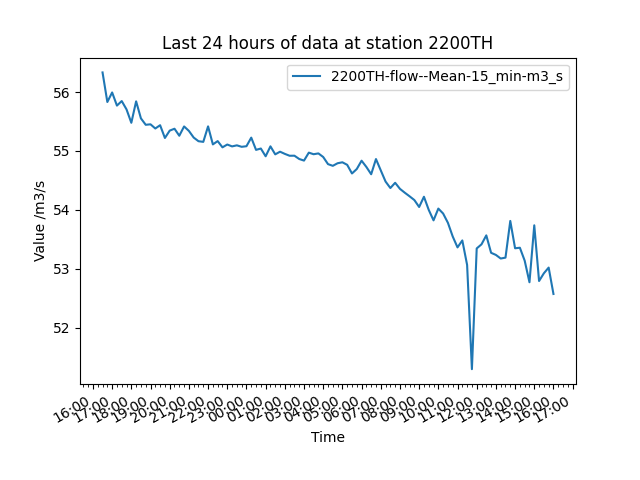
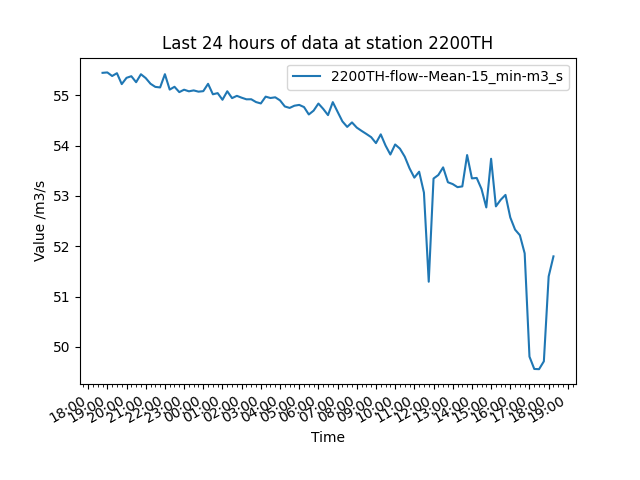
Added better readme and more examples

diff --git a/water_level.py b/water_level.py
@@ -41,8 +41,10 @@ if __name__ == '__main__':
         selected_station=input()
         if any(x in selected_station for x in parameters) and '=' in selected_station:
             parameter,parameter_value=selected_station.split('=')
-            #put the parameter value in title case
-            mask=data[parameter]==parameter_value.title().strip()
+            parameter_value=parameter_value.lower()
+
+            #Create a mask for the selected parameter
+            mask=[x.lower()==parameter_value if type(x)==str else x==parameter_value for x in data[parameter]]
             if sum(mask)==0:
                 logging.info("No station with the specified parameter")
             else:
@@ -81,12 +83,19 @@ if __name__ == '__main__':
         for i in range(len(types)):
             logging.info((i,types[i]))
         logging.info("Which type(s) of measurement would you like to plot? select the relevant index number, if multiples types separate by a comma (e.g. 0,1)")
-        selected_types=input()
-        selected_types=selected_types.split(',')
-        for i in range(len(selected_types)):
-            selected_types[i]=types[int(selected_types[i])]
-        logging.info("Selected types of measurements are: ") 
-        logging.info(selected_types)
+        selection=True
+        while selection:
+            selected_types=input()
+            selected_types=selected_types.split(',')
+            try:
+                for i in range(len(selected_types)):
+                    selected_types[i]=types[int(selected_types[i])]
+                logging.info("Selected types of measurements are: ") 
+                logging.info(selected_types)
+                selection=False
+            except:
+                logging.info("Invalid input")
+                logging.info("Which type(s) of measurement would you like to plot? select the relevant index number, if multiples types separate by a comma (e.g. 0,1)")
     else:
         logging.info("The type of measurement is: "+types[0])
         selected_types=[types[0]]

diff --git a/README.md b/README.md
@@ -42,8 +42,15 @@ This project uses the UK Government's Flood Monitoring API:
         ```
 
 4. Install the required packages:
+
     ```bash
     pip install pandas tqdm matplotlib PyQt5 requests tabulate
+    ```
+    
+    or:
+    
+    ```bash
+    pip install -r requirements.txt
     ```
 ## Features
 - Fetches live flood monitoring station data
@@ -62,27 +69,29 @@ The program will then fetch all the names of the stations and the user can start
 INFO:root:Getting all the stations
 INFO:root:Successfully got stations
 INFO:root:Displaying the first 20 stations
-INFO:root:   id_name                town                                       catchmentName         riverName                    label
-0   1029TH   Little Rissington                                           Cotswolds      River Dikler          Bourton Dickler
-1    E2043   Surfleet Seas End                                             Welland        River Glen          Surfleet Sluice
-2    52119  Kingsbury Episcopi             Parrett, Brue and West Somerset Streams     River Parrett               Gaw Bridge
-3   E21136     Hemingford Grey                              Upper and Bedford Ouse  River Great Ouse               Hemingford
-4     2067             Swindon                        Worcestershire Middle Severn     Smestow Brook                  Swindon
-5    48143              Penryn                          Fal and St Austell Streams      Praze Stream    Penryn Trelawney Park
-6   720215          Bilsborrow                                       Lune and Wyre       River Brock                A6 Bridge
-7    F1906     Netherside Hall                               Wharfe and Lower Ouse      River Wharfe          Netherside Hall
-8    E8266            Ardingly                                                Ouse        River Ouse                 Ardingly
-9   1771TH      Letcombe Regis                                 Vale of White Horse    Letcombe Brook           Letcombe Regis
-10  531118        Winterbourne  Bristol Avon Little Avon Axe and North Somerset St     Bradley Brook           Bradley Bridge
-11   52207           Lovington             Parrett, Brue and West Somerset Streams        River Brue                Lovington
-12   E1147            Goulceby                                              Witham        River Bain                 Goulceby
-13  E70039           Lowestoft                                England - East Coast              Tide                Lowestoft
-14  E70024                 NaN                                                 NaN               NaN                Lowestoft
-15  693115       Northern Moor                                        Upper Mersey     Baguley Brook            Northern Moor
-16  690611          Manchester                                 Northern Manchester         River Irk          Collyhurst Weir
-17  E21720        Haslingfield            Cam and Ely Ouse (Including South Level)        River Rhee  Haslingfield Burnt Mill
-18  2804TH              Pinner                                                Pinn        River Pinn    Pinner, Eastcote Road
-19  2406TH            Chineham                                              Loddon     Petty's Brook                 Chineham
+INFO:root:
+|    | id_name   | town               | catchmentName                                      | riverName        | label                   |
+|---:|:----------|:-------------------|:---------------------------------------------------|:-----------------|:------------------------|
+|  0 | 1029TH    | Little Rissington  | Cotswolds                                          | River Dikler     | Bourton Dickler         |
+|  1 | E2043     | Surfleet Seas End  | Welland                                            | River Glen       | Surfleet Sluice         |
+|  2 | 52119     | Kingsbury Episcopi | Parrett, Brue and West Somerset Streams            | River Parrett    | Gaw Bridge              |
+|  3 | E21136    | Hemingford Grey    | Upper and Bedford Ouse                             | River Great Ouse | Hemingford              |
+|  4 | 2067      | Swindon            | Worcestershire Middle Severn                       | Smestow Brook    | Swindon                 |
+|  5 | 48143     | Penryn             | Fal and St Austell Streams                         | Praze Stream     | Penryn Trelawney Park   |
+|  6 | 720215    | Bilsborrow         | Lune and Wyre                                      | River Brock      | A6 Bridge               |
+|  7 | F1906     | Netherside Hall    | Wharfe and Lower Ouse                              | River Wharfe     | Netherside Hall         |
+|  8 | E8266     | Ardingly           | Ouse                                               | River Ouse       | Ardingly                |
+|  9 | 1771TH    | Letcombe Regis     | Vale of White Horse                                | Letcombe Brook   | Letcombe Regis          |
+| 10 | 531118    | Winterbourne       | Bristol Avon Little Avon Axe and North Somerset St | Bradley Brook    | Bradley Bridge          |
+| 11 | 52207     | Lovington          | Parrett, Brue and West Somerset Streams            | River Brue       | Lovington               |
+| 12 | E1147     | Goulceby           | Witham                                             | River Bain       | Goulceby                |
+| 13 | E70039    | Lowestoft          | England - East Coast                               | Tide             | Lowestoft               |
+| 14 | E70024    | nan                | nan                                                | nan              | Lowestoft               |
+| 15 | 693115    | Northern Moor      | Upper Mersey                                       | Baguley Brook    | Northern Moor           |
+| 16 | 690611    | Manchester         | Northern Manchester                                | River Irk        | Collyhurst Weir         |
+| 17 | E21720    | Haslingfield       | Cam and Ely Ouse (Including South Level)           | River Rhee       | Haslingfield Burnt Mill |
+| 18 | 2804TH    | Pinner             | Pinn                                               | River Pinn       | Pinner, Eastcote Road   |
+| 19 | 2406TH    | Chineham           | Loddon                                             | Petty's Brook    | Chineham                |
 INFO:root:There are 5391 stations
 INFO:root:Which station would you like to select? Enter parameter=parameter_value (e.g. town=Reading). If you would like to restart the selection, enter 'restart'
 INFO:root:The avaliable parameters are:['id_name', 'town', 'catchmentName', 'riverName', 'label']
@@ -98,10 +107,12 @@ town=reading
 output:
 ```
 INFO:root:Displaying the first 20 stations
-INFO:root:  id_name     town           catchmentName     riverName           label
-0  2200TH  Reading  Cherwell Thame and Wye  River Thames         Reading
-1  2201TH  Reading  Cherwell Thame and Wye  River Thames  Caversham Lock
-2  2298TH  Reading     Vale of White Horse  River Kennet     Blakes Lock
+INFO:root:
+|    | id_name   | town    | catchmentName          | riverName    | label          |
+|---:|:----------|:--------|:-----------------------|:-------------|:---------------|
+|  0 | 2200TH    | Reading | Cherwell Thame and Wye | River Thames | Reading        |
+|  1 | 2201TH    | Reading | Cherwell Thame and Wye | River Thames | Caversham Lock |
+|  2 | 2298TH    | Reading | Vale of White Horse    | River Kennet | Blakes Lock    |
 INFO:root:There are 3 stations
 INFO:root:Which station would you like to select? Enter parameter=parameter_value (e.g. town=Reading). If you would like to restart the selection, enter 'restart'
 INFO:root:The avaliable parameters are:['id_name', 'town', 'catchmentName', 'riverName', 'label']
@@ -130,102 +141,103 @@ Output:
 ```
 INFO:root:Selected types of measurements are: 
 INFO:root:['http://environment.data.gov.uk/flood-monitoring/id/measures/2200TH-flow--Mean-15_min-m3_s']
-INFO:root:                     dateTime   value                                                                                    measure
-0   2025-03-09 16:00:00+00:00  52.571  http://environment.data.gov.uk/flood-monitoring/id/measures/2200TH-flow--Mean-15_min-m3_s
-2   2025-03-09 15:45:00+00:00  53.019  http://environment.data.gov.uk/flood-monitoring/id/measures/2200TH-flow--Mean-15_min-m3_s
-4   2025-03-09 15:30:00+00:00  52.922  http://environment.data.gov.uk/flood-monitoring/id/measures/2200TH-flow--Mean-15_min-m3_s
-6   2025-03-09 15:15:00+00:00  52.791  http://environment.data.gov.uk/flood-monitoring/id/measures/2200TH-flow--Mean-15_min-m3_s
-8   2025-03-09 15:00:00+00:00  53.737  http://environment.data.gov.uk/flood-monitoring/id/measures/2200TH-flow--Mean-15_min-m3_s
-10  2025-03-09 14:45:00+00:00  52.770  http://environment.data.gov.uk/flood-monitoring/id/measures/2200TH-flow--Mean-15_min-m3_s
-12  2025-03-09 14:30:00+00:00  53.137  http://environment.data.gov.uk/flood-monitoring/id/measures/2200TH-flow--Mean-15_min-m3_s
-14  2025-03-09 14:15:00+00:00  53.356  http://environment.data.gov.uk/flood-monitoring/id/measures/2200TH-flow--Mean-15_min-m3_s
-16  2025-03-09 14:00:00+00:00  53.347  http://environment.data.gov.uk/flood-monitoring/id/measures/2200TH-flow--Mean-15_min-m3_s
-18  2025-03-09 13:45:00+00:00  53.811  http://environment.data.gov.uk/flood-monitoring/id/measures/2200TH-flow--Mean-15_min-m3_s
-20  2025-03-09 13:30:00+00:00  53.188  http://environment.data.gov.uk/flood-monitoring/id/measures/2200TH-flow--Mean-15_min-m3_s
-22  2025-03-09 13:15:00+00:00  53.173  http://environment.data.gov.uk/flood-monitoring/id/measures/2200TH-flow--Mean-15_min-m3_s
-24  2025-03-09 13:00:00+00:00  53.234  http://environment.data.gov.uk/flood-monitoring/id/measures/2200TH-flow--Mean-15_min-m3_s
-26  2025-03-09 12:45:00+00:00  53.270  http://environment.data.gov.uk/flood-monitoring/id/measures/2200TH-flow--Mean-15_min-m3_s
-28  2025-03-09 12:30:00+00:00  53.566  http://environment.data.gov.uk/flood-monitoring/id/measures/2200TH-flow--Mean-15_min-m3_s
-30  2025-03-09 12:15:00+00:00  53.414  http://environment.data.gov.uk/flood-monitoring/id/measures/2200TH-flow--Mean-15_min-m3_s
-32  2025-03-09 12:00:00+00:00  53.344  http://environment.data.gov.uk/flood-monitoring/id/measures/2200TH-flow--Mean-15_min-m3_s
-34  2025-03-09 11:45:00+00:00  51.294  http://environment.data.gov.uk/flood-monitoring/id/measures/2200TH-flow--Mean-15_min-m3_s
-36  2025-03-09 11:30:00+00:00  53.064  http://environment.data.gov.uk/flood-monitoring/id/measures/2200TH-flow--Mean-15_min-m3_s
-38  2025-03-09 11:15:00+00:00  53.480  http://environment.data.gov.uk/flood-monitoring/id/measures/2200TH-flow--Mean-15_min-m3_s
-40  2025-03-09 11:00:00+00:00  53.362  http://environment.data.gov.uk/flood-monitoring/id/measures/2200TH-flow--Mean-15_min-m3_s
-42  2025-03-09 10:45:00+00:00  53.547  http://environment.data.gov.uk/flood-monitoring/id/measures/2200TH-flow--Mean-15_min-m3_s
-44  2025-03-09 10:30:00+00:00  53.779  http://environment.data.gov.uk/flood-monitoring/id/measures/2200TH-flow--Mean-15_min-m3_s
-46  2025-03-09 10:15:00+00:00  53.937  http://environment.data.gov.uk/flood-monitoring/id/measures/2200TH-flow--Mean-15_min-m3_s
-48  2025-03-09 10:00:00+00:00  54.021  http://environment.data.gov.uk/flood-monitoring/id/measures/2200TH-flow--Mean-15_min-m3_s
-50  2025-03-09 09:45:00+00:00  53.821  http://environment.data.gov.uk/flood-monitoring/id/measures/2200TH-flow--Mean-15_min-m3_s
-52  2025-03-09 09:30:00+00:00  53.999  http://environment.data.gov.uk/flood-monitoring/id/measures/2200TH-flow--Mean-15_min-m3_s
-54  2025-03-09 09:15:00+00:00  54.222  http://environment.data.gov.uk/flood-monitoring/id/measures/2200TH-flow--Mean-15_min-m3_s
-56  2025-03-09 09:00:00+00:00  54.048  http://environment.data.gov.uk/flood-monitoring/id/measures/2200TH-flow--Mean-15_min-m3_s
-58  2025-03-09 08:45:00+00:00  54.166  http://environment.data.gov.uk/flood-monitoring/id/measures/2200TH-flow--Mean-15_min-m3_s
-60  2025-03-09 08:30:00+00:00  54.230  http://environment.data.gov.uk/flood-monitoring/id/measures/2200TH-flow--Mean-15_min-m3_s
-62  2025-03-09 08:15:00+00:00  54.291  http://environment.data.gov.uk/flood-monitoring/id/measures/2200TH-flow--Mean-15_min-m3_s
-64  2025-03-09 08:00:00+00:00  54.356  http://environment.data.gov.uk/flood-monitoring/id/measures/2200TH-flow--Mean-15_min-m3_s
-66  2025-03-09 07:45:00+00:00  54.459  http://environment.data.gov.uk/flood-monitoring/id/measures/2200TH-flow--Mean-15_min-m3_s
-68  2025-03-09 07:30:00+00:00  54.370  http://environment.data.gov.uk/flood-monitoring/id/measures/2200TH-flow--Mean-15_min-m3_s
-70  2025-03-09 07:15:00+00:00  54.480  http://environment.data.gov.uk/flood-monitoring/id/measures/2200TH-flow--Mean-15_min-m3_s
-72  2025-03-09 07:00:00+00:00  54.670  http://environment.data.gov.uk/flood-monitoring/id/measures/2200TH-flow--Mean-15_min-m3_s
-74  2025-03-09 06:45:00+00:00  54.862  http://environment.data.gov.uk/flood-monitoring/id/measures/2200TH-flow--Mean-15_min-m3_s
-76  2025-03-09 06:30:00+00:00  54.604  http://environment.data.gov.uk/flood-monitoring/id/measures/2200TH-flow--Mean-15_min-m3_s
-78  2025-03-09 06:15:00+00:00  54.728  http://environment.data.gov.uk/flood-monitoring/id/measures/2200TH-flow--Mean-15_min-m3_s
-80  2025-03-09 06:00:00+00:00  54.834  http://environment.data.gov.uk/flood-monitoring/id/measures/2200TH-flow--Mean-15_min-m3_s
-82  2025-03-09 05:45:00+00:00  54.693  http://environment.data.gov.uk/flood-monitoring/id/measures/2200TH-flow--Mean-15_min-m3_s
-84  2025-03-09 05:30:00+00:00  54.617  http://environment.data.gov.uk/flood-monitoring/id/measures/2200TH-flow--Mean-15_min-m3_s
-86  2025-03-09 05:15:00+00:00  54.764  http://environment.data.gov.uk/flood-monitoring/id/measures/2200TH-flow--Mean-15_min-m3_s
-88  2025-03-09 05:00:00+00:00  54.807  http://environment.data.gov.uk/flood-monitoring/id/measures/2200TH-flow--Mean-15_min-m3_s
-90  2025-03-09 04:45:00+00:00  54.791  http://environment.data.gov.uk/flood-monitoring/id/measures/2200TH-flow--Mean-15_min-m3_s
-92  2025-03-09 04:30:00+00:00  54.747  http://environment.data.gov.uk/flood-monitoring/id/measures/2200TH-flow--Mean-15_min-m3_s
-94  2025-03-09 04:15:00+00:00  54.776  http://environment.data.gov.uk/flood-monitoring/id/measures/2200TH-flow--Mean-15_min-m3_s
-96  2025-03-09 04:00:00+00:00  54.897  http://environment.data.gov.uk/flood-monitoring/id/measures/2200TH-flow--Mean-15_min-m3_s
-98  2025-03-09 03:45:00+00:00  54.958  http://environment.data.gov.uk/flood-monitoring/id/measures/2200TH-flow--Mean-15_min-m3_s
-100 2025-03-09 03:30:00+00:00  54.944  http://environment.data.gov.uk/flood-monitoring/id/measures/2200TH-flow--Mean-15_min-m3_s
-102 2025-03-09 03:15:00+00:00  54.971  http://environment.data.gov.uk/flood-monitoring/id/measures/2200TH-flow--Mean-15_min-m3_s
-104 2025-03-09 03:00:00+00:00  54.836  http://environment.data.gov.uk/flood-monitoring/id/measures/2200TH-flow--Mean-15_min-m3_s
-106 2025-03-09 02:45:00+00:00  54.863  http://environment.data.gov.uk/flood-monitoring/id/measures/2200TH-flow--Mean-15_min-m3_s
-108 2025-03-09 02:30:00+00:00  54.919  http://environment.data.gov.uk/flood-monitoring/id/measures/2200TH-flow--Mean-15_min-m3_s
-110 2025-03-09 02:15:00+00:00  54.918  http://environment.data.gov.uk/flood-monitoring/id/measures/2200TH-flow--Mean-15_min-m3_s
-112 2025-03-09 02:00:00+00:00  54.950  http://environment.data.gov.uk/flood-monitoring/id/measures/2200TH-flow--Mean-15_min-m3_s
-114 2025-03-09 01:45:00+00:00  54.987  http://environment.data.gov.uk/flood-monitoring/id/measures/2200TH-flow--Mean-15_min-m3_s
-116 2025-03-09 01:30:00+00:00  54.942  http://environment.data.gov.uk/flood-monitoring/id/measures/2200TH-flow--Mean-15_min-m3_s
-118 2025-03-09 01:15:00+00:00  55.078  http://environment.data.gov.uk/flood-monitoring/id/measures/2200TH-flow--Mean-15_min-m3_s
-120 2025-03-09 01:00:00+00:00  54.909  http://environment.data.gov.uk/flood-monitoring/id/measures/2200TH-flow--Mean-15_min-m3_s
-122 2025-03-09 00:45:00+00:00  55.041  http://environment.data.gov.uk/flood-monitoring/id/measures/2200TH-flow--Mean-15_min-m3_s
-124 2025-03-09 00:30:00+00:00  55.018  http://environment.data.gov.uk/flood-monitoring/id/measures/2200TH-flow--Mean-15_min-m3_s
-126 2025-03-09 00:15:00+00:00  55.226  http://environment.data.gov.uk/flood-monitoring/id/measures/2200TH-flow--Mean-15_min-m3_s
-128 2025-03-09 00:00:00+00:00  55.080  http://environment.data.gov.uk/flood-monitoring/id/measures/2200TH-flow--Mean-15_min-m3_s
-130 2025-03-08 23:45:00+00:00  55.070  http://environment.data.gov.uk/flood-monitoring/id/measures/2200TH-flow--Mean-15_min-m3_s
-132 2025-03-08 23:30:00+00:00  55.095  http://environment.data.gov.uk/flood-monitoring/id/measures/2200TH-flow--Mean-15_min-m3_s
-134 2025-03-08 23:15:00+00:00  55.077  http://environment.data.gov.uk/flood-monitoring/id/measures/2200TH-flow--Mean-15_min-m3_s
-136 2025-03-08 23:00:00+00:00  55.109  http://environment.data.gov.uk/flood-monitoring/id/measures/2200TH-flow--Mean-15_min-m3_s
-138 2025-03-08 22:45:00+00:00  55.061  http://environment.data.gov.uk/flood-monitoring/id/measures/2200TH-flow--Mean-15_min-m3_s
-140 2025-03-08 22:30:00+00:00  55.167  http://environment.data.gov.uk/flood-monitoring/id/measures/2200TH-flow--Mean-15_min-m3_s
-142 2025-03-08 22:15:00+00:00  55.111  http://environment.data.gov.uk/flood-monitoring/id/measures/2200TH-flow--Mean-15_min-m3_s
-144 2025-03-08 22:00:00+00:00  55.417  http://environment.data.gov.uk/flood-monitoring/id/measures/2200TH-flow--Mean-15_min-m3_s
-146 2025-03-08 21:45:00+00:00  55.154  http://environment.data.gov.uk/flood-monitoring/id/measures/2200TH-flow--Mean-15_min-m3_s
-148 2025-03-08 21:30:00+00:00  55.165  http://environment.data.gov.uk/flood-monitoring/id/measures/2200TH-flow--Mean-15_min-m3_s
-150 2025-03-08 21:15:00+00:00  55.227  http://environment.data.gov.uk/flood-monitoring/id/measures/2200TH-flow--Mean-15_min-m3_s
-152 2025-03-08 21:00:00+00:00  55.340  http://environment.data.gov.uk/flood-monitoring/id/measures/2200TH-flow--Mean-15_min-m3_s
-154 2025-03-08 20:45:00+00:00  55.416  http://environment.data.gov.uk/flood-monitoring/id/measures/2200TH-flow--Mean-15_min-m3_s
-156 2025-03-08 20:30:00+00:00  55.258  http://environment.data.gov.uk/flood-monitoring/id/measures/2200TH-flow--Mean-15_min-m3_s
-158 2025-03-08 20:15:00+00:00  55.377  http://environment.data.gov.uk/flood-monitoring/id/measures/2200TH-flow--Mean-15_min-m3_s
-160 2025-03-08 20:00:00+00:00  55.345  http://environment.data.gov.uk/flood-monitoring/id/measures/2200TH-flow--Mean-15_min-m3_s
-162 2025-03-08 19:45:00+00:00  55.220  http://environment.data.gov.uk/flood-monitoring/id/measures/2200TH-flow--Mean-15_min-m3_s
-164 2025-03-08 19:30:00+00:00  55.437  http://environment.data.gov.uk/flood-monitoring/id/measures/2200TH-flow--Mean-15_min-m3_s
-166 2025-03-08 19:15:00+00:00  55.381  http://environment.data.gov.uk/flood-monitoring/id/measures/2200TH-flow--Mean-15_min-m3_s
-168 2025-03-08 19:00:00+00:00  55.452  http://environment.data.gov.uk/flood-monitoring/id/measures/2200TH-flow--Mean-15_min-m3_s
-170 2025-03-08 18:45:00+00:00  55.444  http://environment.data.gov.uk/flood-monitoring/id/measures/2200TH-flow--Mean-15_min-m3_s
-172 2025-03-08 18:30:00+00:00  55.553  http://environment.data.gov.uk/flood-monitoring/id/measures/2200TH-flow--Mean-15_min-m3_s
-174 2025-03-08 18:15:00+00:00  55.842  http://environment.data.gov.uk/flood-monitoring/id/measures/2200TH-flow--Mean-15_min-m3_s
-176 2025-03-08 18:00:00+00:00  55.478  http://environment.data.gov.uk/flood-monitoring/id/measures/2200TH-flow--Mean-15_min-m3_s
-178 2025-03-08 17:45:00+00:00  55.705  http://environment.data.gov.uk/flood-monitoring/id/measures/2200TH-flow--Mean-15_min-m3_s
-180 2025-03-08 17:30:00+00:00  55.847  http://environment.data.gov.uk/flood-monitoring/id/measures/2200TH-flow--Mean-15_min-m3_s
-182 2025-03-08 17:15:00+00:00  55.770  http://environment.data.gov.uk/flood-monitoring/id/measures/2200TH-flow--Mean-15_min-m3_s
-184 2025-03-08 17:00:00+00:00  55.993  http://environment.data.gov.uk/flood-monitoring/id/measures/2200TH-flow--Mean-15_min-m3_s
-186 2025-03-08 16:45:00+00:00  55.831  http://environment.data.gov.uk/flood-monitoring/id/measures/2200TH-flow--Mean-15_min-m3_s
-188 2025-03-08 16:30:00+00:00  56.333  http://environment.data.gov.uk/flood-monitoring/id/measures/2200TH-flow--Mean-15_min-m3_s
+|     | dateTime                  |   value | measure                                                                                   |
+|----:|:--------------------------|--------:|:------------------------------------------------------------------------------------------|
+|   0 | 2025-03-09 18:15:00+00:00 |  51.798 | http://environment.data.gov.uk/flood-monitoring/id/measures/2200TH-flow--Mean-15_min-m3_s |
+|   2 | 2025-03-09 18:00:00+00:00 |  51.399 | http://environment.data.gov.uk/flood-monitoring/id/measures/2200TH-flow--Mean-15_min-m3_s |
+|   4 | 2025-03-09 17:45:00+00:00 |  49.713 | http://environment.data.gov.uk/flood-monitoring/id/measures/2200TH-flow--Mean-15_min-m3_s |
+|   6 | 2025-03-09 17:30:00+00:00 |  49.557 | http://environment.data.gov.uk/flood-monitoring/id/measures/2200TH-flow--Mean-15_min-m3_s |
+|   8 | 2025-03-09 17:15:00+00:00 |  49.561 | http://environment.data.gov.uk/flood-monitoring/id/measures/2200TH-flow--Mean-15_min-m3_s |
+|  10 | 2025-03-09 17:00:00+00:00 |  49.806 | http://environment.data.gov.uk/flood-monitoring/id/measures/2200TH-flow--Mean-15_min-m3_s |
+|  12 | 2025-03-09 16:45:00+00:00 |  51.858 | http://environment.data.gov.uk/flood-monitoring/id/measures/2200TH-flow--Mean-15_min-m3_s |
+|  14 | 2025-03-09 16:30:00+00:00 |  52.218 | http://environment.data.gov.uk/flood-monitoring/id/measures/2200TH-flow--Mean-15_min-m3_s |
+|  16 | 2025-03-09 16:15:00+00:00 |  52.329 | http://environment.data.gov.uk/flood-monitoring/id/measures/2200TH-flow--Mean-15_min-m3_s |
+|  18 | 2025-03-09 16:00:00+00:00 |  52.571 | http://environment.data.gov.uk/flood-monitoring/id/measures/2200TH-flow--Mean-15_min-m3_s |
+|  20 | 2025-03-09 15:45:00+00:00 |  53.019 | http://environment.data.gov.uk/flood-monitoring/id/measures/2200TH-flow--Mean-15_min-m3_s |
+|  22 | 2025-03-09 15:30:00+00:00 |  52.922 | http://environment.data.gov.uk/flood-monitoring/id/measures/2200TH-flow--Mean-15_min-m3_s |
+|  24 | 2025-03-09 15:15:00+00:00 |  52.791 | http://environment.data.gov.uk/flood-monitoring/id/measures/2200TH-flow--Mean-15_min-m3_s |
+|  26 | 2025-03-09 15:00:00+00:00 |  53.737 | http://environment.data.gov.uk/flood-monitoring/id/measures/2200TH-flow--Mean-15_min-m3_s |
+|  28 | 2025-03-09 14:45:00+00:00 |  52.77  | http://environment.data.gov.uk/flood-monitoring/id/measures/2200TH-flow--Mean-15_min-m3_s |
+|  30 | 2025-03-09 14:30:00+00:00 |  53.137 | http://environment.data.gov.uk/flood-monitoring/id/measures/2200TH-flow--Mean-15_min-m3_s |
+|  32 | 2025-03-09 14:15:00+00:00 |  53.356 | http://environment.data.gov.uk/flood-monitoring/id/measures/2200TH-flow--Mean-15_min-m3_s |
+|  34 | 2025-03-09 14:00:00+00:00 |  53.347 | http://environment.data.gov.uk/flood-monitoring/id/measures/2200TH-flow--Mean-15_min-m3_s |
+|  36 | 2025-03-09 13:45:00+00:00 |  53.811 | http://environment.data.gov.uk/flood-monitoring/id/measures/2200TH-flow--Mean-15_min-m3_s |
+|  38 | 2025-03-09 13:30:00+00:00 |  53.188 | http://environment.data.gov.uk/flood-monitoring/id/measures/2200TH-flow--Mean-15_min-m3_s |
+|  40 | 2025-03-09 13:15:00+00:00 |  53.173 | http://environment.data.gov.uk/flood-monitoring/id/measures/2200TH-flow--Mean-15_min-m3_s |
+|  42 | 2025-03-09 13:00:00+00:00 |  53.234 | http://environment.data.gov.uk/flood-monitoring/id/measures/2200TH-flow--Mean-15_min-m3_s |
+|  44 | 2025-03-09 12:45:00+00:00 |  53.27  | http://environment.data.gov.uk/flood-monitoring/id/measures/2200TH-flow--Mean-15_min-m3_s |
+|  46 | 2025-03-09 12:30:00+00:00 |  53.566 | http://environment.data.gov.uk/flood-monitoring/id/measures/2200TH-flow--Mean-15_min-m3_s |
+|  48 | 2025-03-09 12:15:00+00:00 |  53.414 | http://environment.data.gov.uk/flood-monitoring/id/measures/2200TH-flow--Mean-15_min-m3_s |
+|  50 | 2025-03-09 12:00:00+00:00 |  53.344 | http://environment.data.gov.uk/flood-monitoring/id/measures/2200TH-flow--Mean-15_min-m3_s |
+|  52 | 2025-03-09 11:45:00+00:00 |  51.294 | http://environment.data.gov.uk/flood-monitoring/id/measures/2200TH-flow--Mean-15_min-m3_s |
+|  54 | 2025-03-09 11:30:00+00:00 |  53.064 | http://environment.data.gov.uk/flood-monitoring/id/measures/2200TH-flow--Mean-15_min-m3_s |
+|  56 | 2025-03-09 11:15:00+00:00 |  53.48  | http://environment.data.gov.uk/flood-monitoring/id/measures/2200TH-flow--Mean-15_min-m3_s |
+|  58 | 2025-03-09 11:00:00+00:00 |  53.362 | http://environment.data.gov.uk/flood-monitoring/id/measures/2200TH-flow--Mean-15_min-m3_s |
+|  60 | 2025-03-09 10:45:00+00:00 |  53.547 | http://environment.data.gov.uk/flood-monitoring/id/measures/2200TH-flow--Mean-15_min-m3_s |
+|  62 | 2025-03-09 10:30:00+00:00 |  53.779 | http://environment.data.gov.uk/flood-monitoring/id/measures/2200TH-flow--Mean-15_min-m3_s |
+|  64 | 2025-03-09 10:15:00+00:00 |  53.937 | http://environment.data.gov.uk/flood-monitoring/id/measures/2200TH-flow--Mean-15_min-m3_s |
+|  66 | 2025-03-09 10:00:00+00:00 |  54.021 | http://environment.data.gov.uk/flood-monitoring/id/measures/2200TH-flow--Mean-15_min-m3_s |
+|  68 | 2025-03-09 09:45:00+00:00 |  53.821 | http://environment.data.gov.uk/flood-monitoring/id/measures/2200TH-flow--Mean-15_min-m3_s |
+|  70 | 2025-03-09 09:30:00+00:00 |  53.999 | http://environment.data.gov.uk/flood-monitoring/id/measures/2200TH-flow--Mean-15_min-m3_s |
+|  72 | 2025-03-09 09:15:00+00:00 |  54.222 | http://environment.data.gov.uk/flood-monitoring/id/measures/2200TH-flow--Mean-15_min-m3_s |
+|  74 | 2025-03-09 09:00:00+00:00 |  54.048 | http://environment.data.gov.uk/flood-monitoring/id/measures/2200TH-flow--Mean-15_min-m3_s |
+|  76 | 2025-03-09 08:45:00+00:00 |  54.166 | http://environment.data.gov.uk/flood-monitoring/id/measures/2200TH-flow--Mean-15_min-m3_s |
+|  78 | 2025-03-09 08:30:00+00:00 |  54.23  | http://environment.data.gov.uk/flood-monitoring/id/measures/2200TH-flow--Mean-15_min-m3_s |
+|  80 | 2025-03-09 08:15:00+00:00 |  54.291 | http://environment.data.gov.uk/flood-monitoring/id/measures/2200TH-flow--Mean-15_min-m3_s |
+|  82 | 2025-03-09 08:00:00+00:00 |  54.356 | http://environment.data.gov.uk/flood-monitoring/id/measures/2200TH-flow--Mean-15_min-m3_s |
+|  84 | 2025-03-09 07:45:00+00:00 |  54.459 | http://environment.data.gov.uk/flood-monitoring/id/measures/2200TH-flow--Mean-15_min-m3_s |
+|  86 | 2025-03-09 07:30:00+00:00 |  54.37  | http://environment.data.gov.uk/flood-monitoring/id/measures/2200TH-flow--Mean-15_min-m3_s |
+|  88 | 2025-03-09 07:15:00+00:00 |  54.48  | http://environment.data.gov.uk/flood-monitoring/id/measures/2200TH-flow--Mean-15_min-m3_s |
+|  90 | 2025-03-09 07:00:00+00:00 |  54.67  | http://environment.data.gov.uk/flood-monitoring/id/measures/2200TH-flow--Mean-15_min-m3_s |
+|  92 | 2025-03-09 06:45:00+00:00 |  54.862 | http://environment.data.gov.uk/flood-monitoring/id/measures/2200TH-flow--Mean-15_min-m3_s |
+|  94 | 2025-03-09 06:30:00+00:00 |  54.604 | http://environment.data.gov.uk/flood-monitoring/id/measures/2200TH-flow--Mean-15_min-m3_s |
+|  96 | 2025-03-09 06:15:00+00:00 |  54.728 | http://environment.data.gov.uk/flood-monitoring/id/measures/2200TH-flow--Mean-15_min-m3_s |
+|  98 | 2025-03-09 06:00:00+00:00 |  54.834 | http://environment.data.gov.uk/flood-monitoring/id/measures/2200TH-flow--Mean-15_min-m3_s |
+| 100 | 2025-03-09 05:45:00+00:00 |  54.693 | http://environment.data.gov.uk/flood-monitoring/id/measures/2200TH-flow--Mean-15_min-m3_s |
+| 102 | 2025-03-09 05:30:00+00:00 |  54.617 | http://environment.data.gov.uk/flood-monitoring/id/measures/2200TH-flow--Mean-15_min-m3_s |
+| 104 | 2025-03-09 05:15:00+00:00 |  54.764 | http://environment.data.gov.uk/flood-monitoring/id/measures/2200TH-flow--Mean-15_min-m3_s |
+| 106 | 2025-03-09 05:00:00+00:00 |  54.807 | http://environment.data.gov.uk/flood-monitoring/id/measures/2200TH-flow--Mean-15_min-m3_s |
+| 108 | 2025-03-09 04:45:00+00:00 |  54.791 | http://environment.data.gov.uk/flood-monitoring/id/measures/2200TH-flow--Mean-15_min-m3_s |
+| 110 | 2025-03-09 04:30:00+00:00 |  54.747 | http://environment.data.gov.uk/flood-monitoring/id/measures/2200TH-flow--Mean-15_min-m3_s |
+| 112 | 2025-03-09 04:15:00+00:00 |  54.776 | http://environment.data.gov.uk/flood-monitoring/id/measures/2200TH-flow--Mean-15_min-m3_s |
+| 114 | 2025-03-09 04:00:00+00:00 |  54.897 | http://environment.data.gov.uk/flood-monitoring/id/measures/2200TH-flow--Mean-15_min-m3_s |
+| 116 | 2025-03-09 03:45:00+00:00 |  54.958 | http://environment.data.gov.uk/flood-monitoring/id/measures/2200TH-flow--Mean-15_min-m3_s |
+| 118 | 2025-03-09 03:30:00+00:00 |  54.944 | http://environment.data.gov.uk/flood-monitoring/id/measures/2200TH-flow--Mean-15_min-m3_s |
+| 120 | 2025-03-09 03:15:00+00:00 |  54.971 | http://environment.data.gov.uk/flood-monitoring/id/measures/2200TH-flow--Mean-15_min-m3_s |
+| 122 | 2025-03-09 03:00:00+00:00 |  54.836 | http://environment.data.gov.uk/flood-monitoring/id/measures/2200TH-flow--Mean-15_min-m3_s |
+| 124 | 2025-03-09 02:45:00+00:00 |  54.863 | http://environment.data.gov.uk/flood-monitoring/id/measures/2200TH-flow--Mean-15_min-m3_s |
+| 126 | 2025-03-09 02:30:00+00:00 |  54.919 | http://environment.data.gov.uk/flood-monitoring/id/measures/2200TH-flow--Mean-15_min-m3_s |
+| 128 | 2025-03-09 02:15:00+00:00 |  54.918 | http://environment.data.gov.uk/flood-monitoring/id/measures/2200TH-flow--Mean-15_min-m3_s |
+| 130 | 2025-03-09 02:00:00+00:00 |  54.95  | http://environment.data.gov.uk/flood-monitoring/id/measures/2200TH-flow--Mean-15_min-m3_s |
+| 132 | 2025-03-09 01:45:00+00:00 |  54.987 | http://environment.data.gov.uk/flood-monitoring/id/measures/2200TH-flow--Mean-15_min-m3_s |
+| 134 | 2025-03-09 01:30:00+00:00 |  54.942 | http://environment.data.gov.uk/flood-monitoring/id/measures/2200TH-flow--Mean-15_min-m3_s |
+| 136 | 2025-03-09 01:15:00+00:00 |  55.078 | http://environment.data.gov.uk/flood-monitoring/id/measures/2200TH-flow--Mean-15_min-m3_s |
+| 138 | 2025-03-09 01:00:00+00:00 |  54.909 | http://environment.data.gov.uk/flood-monitoring/id/measures/2200TH-flow--Mean-15_min-m3_s |
+| 140 | 2025-03-09 00:45:00+00:00 |  55.041 | http://environment.data.gov.uk/flood-monitoring/id/measures/2200TH-flow--Mean-15_min-m3_s |
+| 142 | 2025-03-09 00:30:00+00:00 |  55.018 | http://environment.data.gov.uk/flood-monitoring/id/measures/2200TH-flow--Mean-15_min-m3_s |
+| 144 | 2025-03-09 00:15:00+00:00 |  55.226 | http://environment.data.gov.uk/flood-monitoring/id/measures/2200TH-flow--Mean-15_min-m3_s |
+| 146 | 2025-03-09 00:00:00+00:00 |  55.08  | http://environment.data.gov.uk/flood-monitoring/id/measures/2200TH-flow--Mean-15_min-m3_s |
+| 148 | 2025-03-08 23:45:00+00:00 |  55.07  | http://environment.data.gov.uk/flood-monitoring/id/measures/2200TH-flow--Mean-15_min-m3_s |
+| 150 | 2025-03-08 23:30:00+00:00 |  55.095 | http://environment.data.gov.uk/flood-monitoring/id/measures/2200TH-flow--Mean-15_min-m3_s |
+| 152 | 2025-03-08 23:15:00+00:00 |  55.077 | http://environment.data.gov.uk/flood-monitoring/id/measures/2200TH-flow--Mean-15_min-m3_s |
+| 154 | 2025-03-08 23:00:00+00:00 |  55.109 | http://environment.data.gov.uk/flood-monitoring/id/measures/2200TH-flow--Mean-15_min-m3_s |
+| 156 | 2025-03-08 22:45:00+00:00 |  55.061 | http://environment.data.gov.uk/flood-monitoring/id/measures/2200TH-flow--Mean-15_min-m3_s |
+| 158 | 2025-03-08 22:30:00+00:00 |  55.167 | http://environment.data.gov.uk/flood-monitoring/id/measures/2200TH-flow--Mean-15_min-m3_s |
+| 160 | 2025-03-08 22:15:00+00:00 |  55.111 | http://environment.data.gov.uk/flood-monitoring/id/measures/2200TH-flow--Mean-15_min-m3_s |
+| 162 | 2025-03-08 22:00:00+00:00 |  55.417 | http://environment.data.gov.uk/flood-monitoring/id/measures/2200TH-flow--Mean-15_min-m3_s |
+| 164 | 2025-03-08 21:45:00+00:00 |  55.154 | http://environment.data.gov.uk/flood-monitoring/id/measures/2200TH-flow--Mean-15_min-m3_s |
+| 166 | 2025-03-08 21:30:00+00:00 |  55.165 | http://environment.data.gov.uk/flood-monitoring/id/measures/2200TH-flow--Mean-15_min-m3_s |
+| 168 | 2025-03-08 21:15:00+00:00 |  55.227 | http://environment.data.gov.uk/flood-monitoring/id/measures/2200TH-flow--Mean-15_min-m3_s |
+| 170 | 2025-03-08 21:00:00+00:00 |  55.34  | http://environment.data.gov.uk/flood-monitoring/id/measures/2200TH-flow--Mean-15_min-m3_s |
+| 172 | 2025-03-08 20:45:00+00:00 |  55.416 | http://environment.data.gov.uk/flood-monitoring/id/measures/2200TH-flow--Mean-15_min-m3_s |
+| 174 | 2025-03-08 20:30:00+00:00 |  55.258 | http://environment.data.gov.uk/flood-monitoring/id/measures/2200TH-flow--Mean-15_min-m3_s |
+| 176 | 2025-03-08 20:15:00+00:00 |  55.377 | http://environment.data.gov.uk/flood-monitoring/id/measures/2200TH-flow--Mean-15_min-m3_s |
+| 178 | 2025-03-08 20:00:00+00:00 |  55.345 | http://environment.data.gov.uk/flood-monitoring/id/measures/2200TH-flow--Mean-15_min-m3_s |
+| 180 | 2025-03-08 19:45:00+00:00 |  55.22  | http://environment.data.gov.uk/flood-monitoring/id/measures/2200TH-flow--Mean-15_min-m3_s |
+| 182 | 2025-03-08 19:30:00+00:00 |  55.437 | http://environment.data.gov.uk/flood-monitoring/id/measures/2200TH-flow--Mean-15_min-m3_s |
+| 184 | 2025-03-08 19:15:00+00:00 |  55.381 | http://environment.data.gov.uk/flood-monitoring/id/measures/2200TH-flow--Mean-15_min-m3_s |
+| 186 | 2025-03-08 19:00:00+00:00 |  55.452 | http://environment.data.gov.uk/flood-monitoring/id/measures/2200TH-flow--Mean-15_min-m3_s |
+| 188 | 2025-03-08 18:45:00+00:00 |  55.444 | http://environment.data.gov.uk/flood-monitoring/id/measures/2200TH-flow--Mean-15_min-m3_s |
 
 ```
 ![Alt text](images/Example_figure.png)
